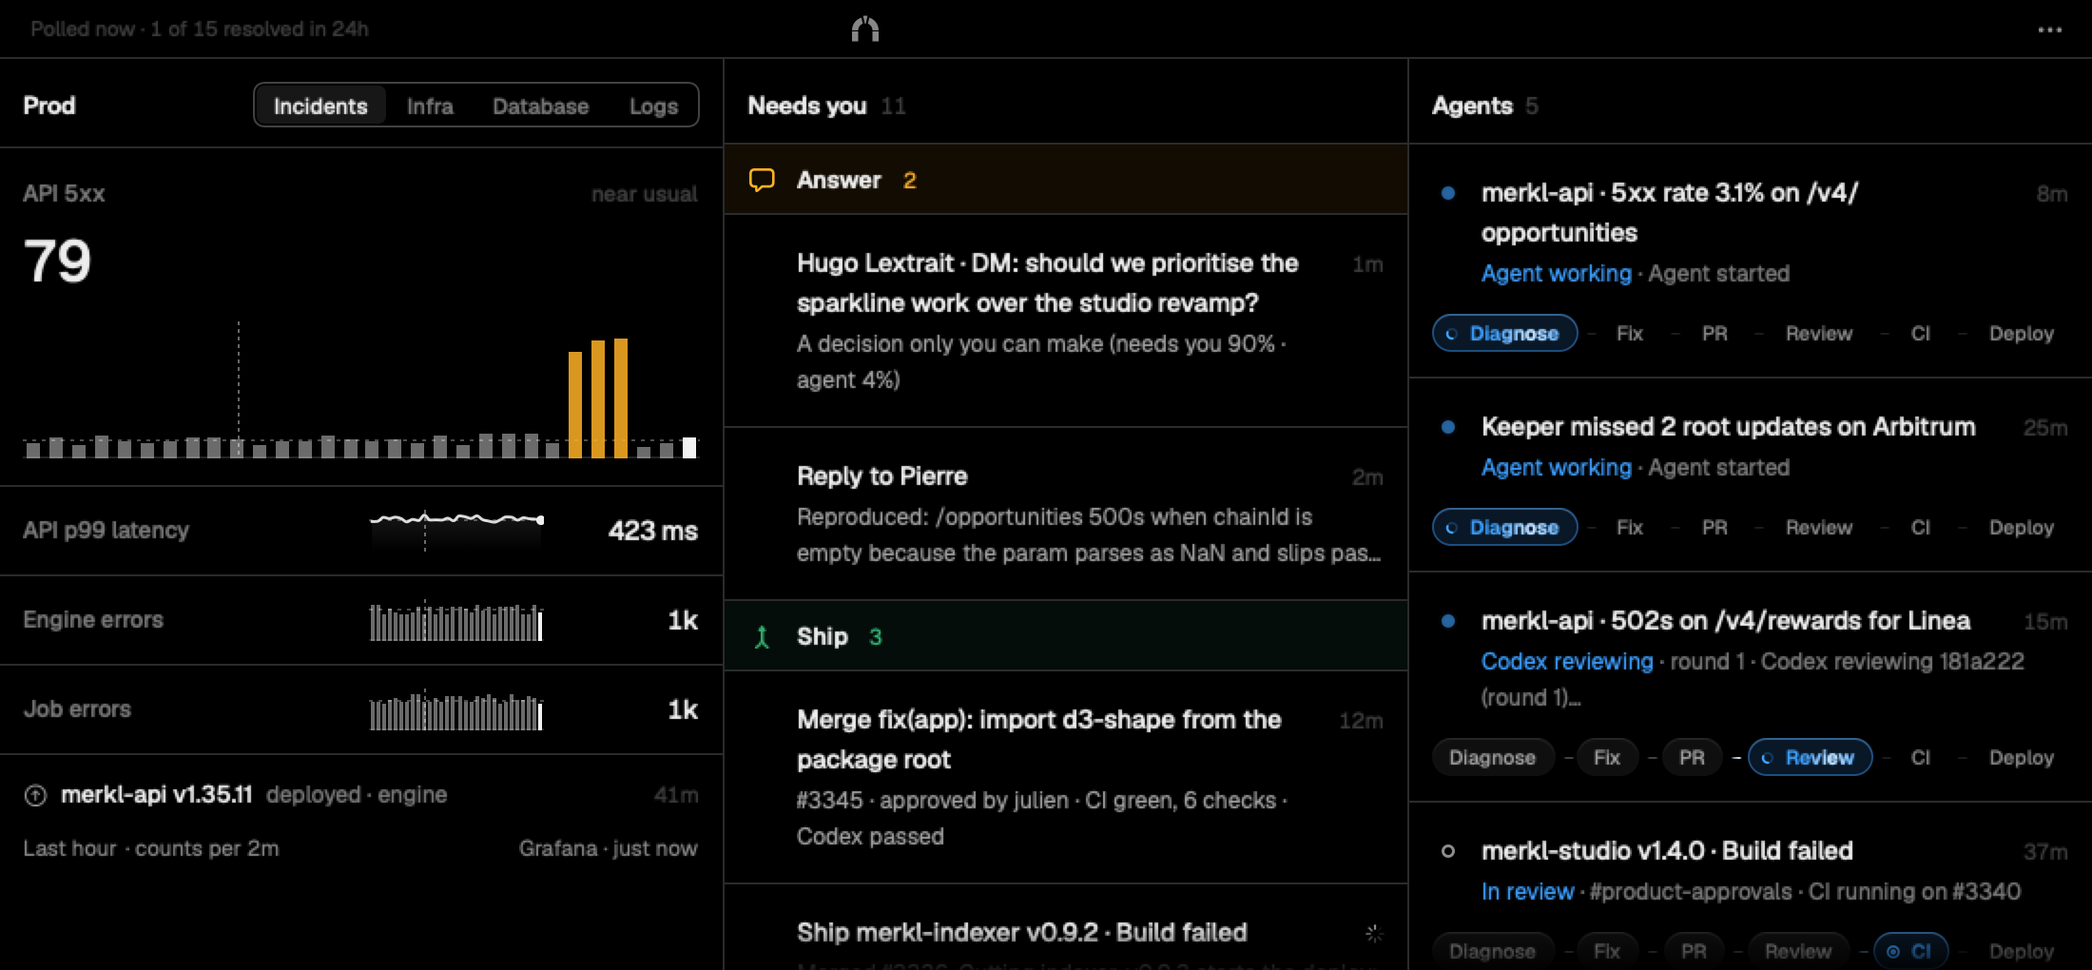
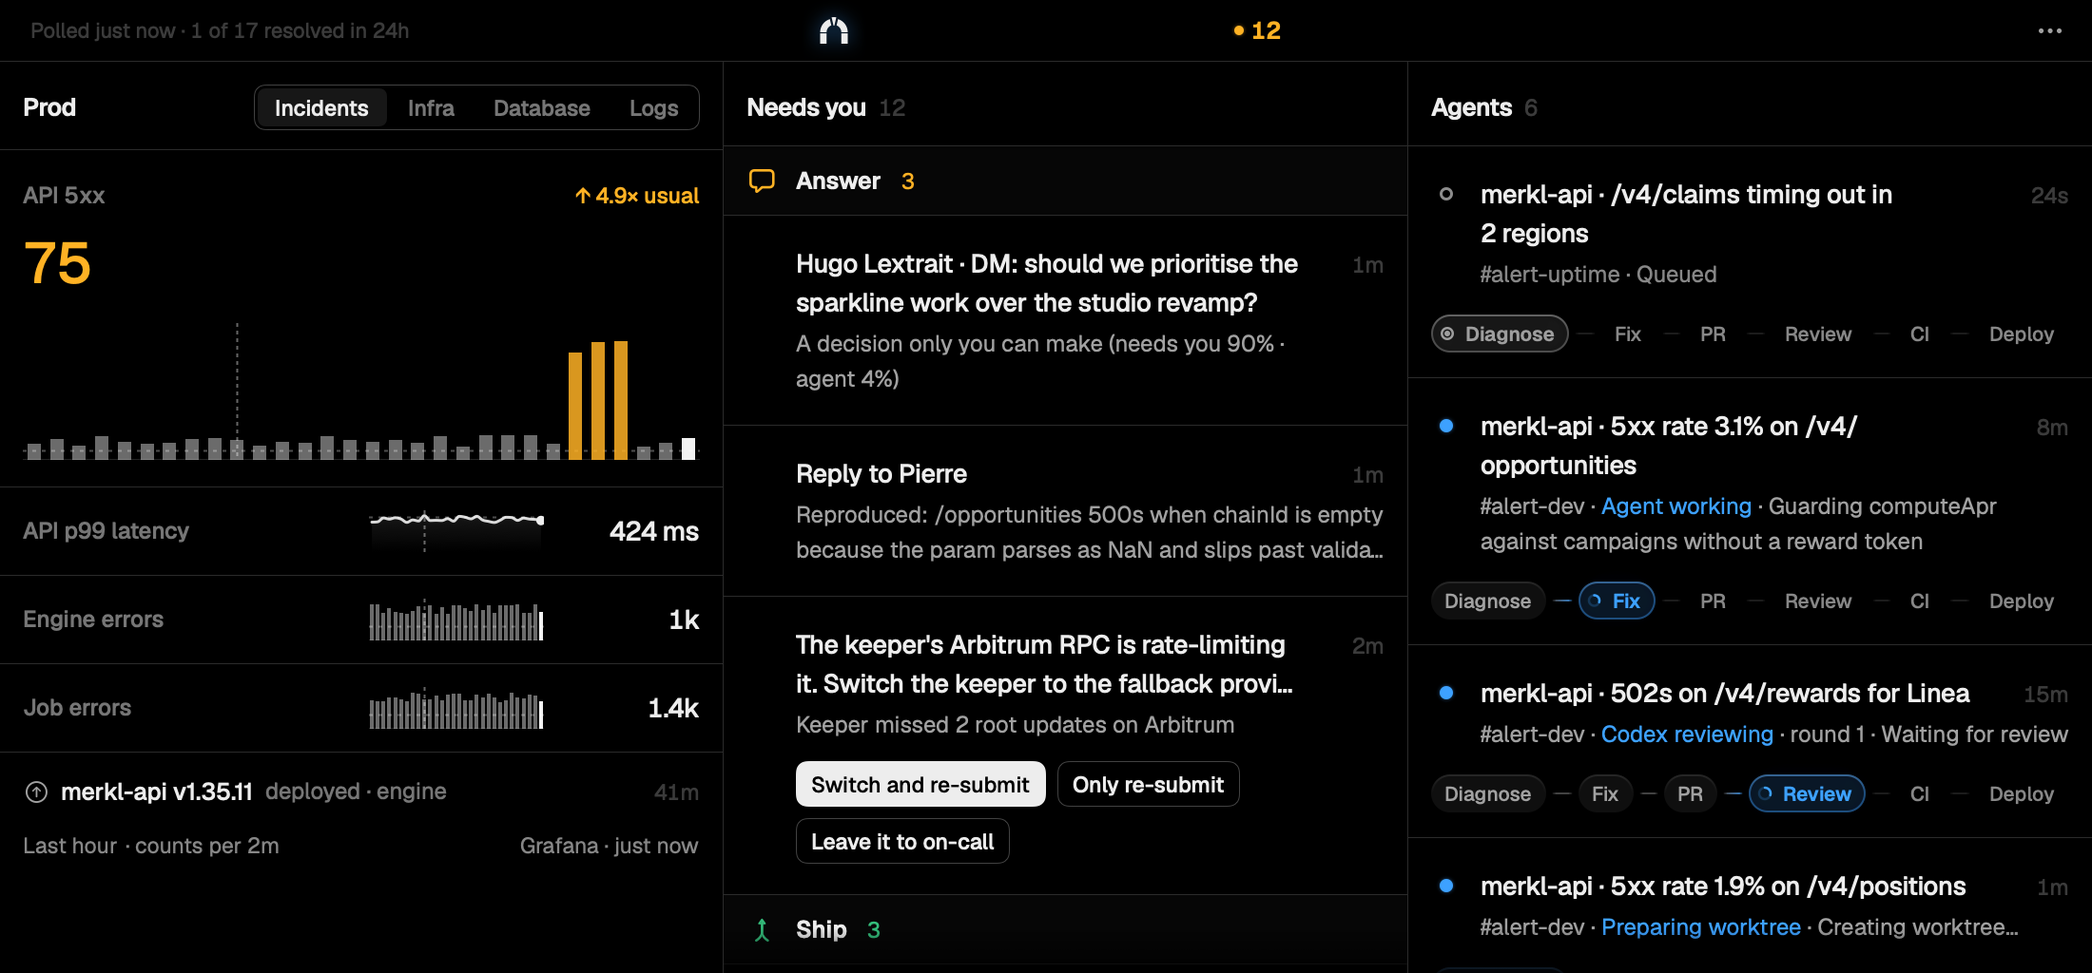
App: the offscreen harness drives hover and targets the intended controls
Drive row hover from accessibility frames in DEBUG runs, including clearing it between steps. The suite clicks the hovered Merge control by label, uses named row actions for nested buttons, and targets the bulk Dismiss control after Retry replaces its selected card. Exact-title filters avoid clock-derived action selectors, and banner text is asserted before capture.

Force Reduce Motion through Easing as well as the view environment. The mock signals release startup without polling and can exit before binding to exercise the daemon-keeps-stopping diagnostic. Refreshed the README images through the existing harness capture script.

The full suite passes with 121 shots and zero errors or warnings: 96 seconds of harness time versus 73 seconds for the previous 118-shot suite, while the parallel site run was active. App tests, debug build, and the daemon type checks and 988 tests pass.

diff --git a/app/Sources/Bridgetown/E2E/E2ERunner.swift b/app/Sources/Bridgetown/E2E/E2ERunner.swift
@@ -119,7 +119,22 @@ final class E2ERunner {
             try await wait(.settled, timeoutMs: 0)
         case let .telemetry(mode):
             surfaces.defaults.set(mode.rawValue, forKey: "telemetryMode")
+        case let .see(target):
+            _ = try await find(target)
+        case let .hover(target):
+            try await wait(.settled, timeoutMs: 0)
+            guard surfaces.current != nil else { throw Failure(description: "no surface to hover") }
+            let point: CGPoint
+            if let target {
+                let (element, _) = try await find(target)
+                point = CGPoint(x: element.frame.midX, y: element.frame.midY)
+            } else { point = CGPoint(x: -1, y: -1) }
+            surfaces.hover.point = target == nil ? nil : point
+            lastSettled = nil
+            try await wait(.settled, timeoutMs: 0)
         case let .press(target):
+            // A prior request may replace the card and its controls on the next snapshot.
+            try await wait(.settled, timeoutMs: 0)
             let (element, node) = try await find(target)
             guard E2EAccessibility.press(node) else {
                 throw Failure(description: "\(target.target) (\(element.role), \(type(of: node))) doesn't take a press")
@@ -179,14 +194,17 @@ final class E2ERunner {
             await withCheckedContinuation { done in
                 if !daemon.stop(completion: { done.resume() }) { done.resume() }
             }
-        case let .restart(world, tokenMismatch):
+        case let .restart(world, tokenMismatch, exitsAtStart):
+            daemon.extraEnvironment["MOCK_EXIT_AT_START"] = exitsAtStart ? "1" : ""
             daemon.extraEnvironment["MOCK_WORLD"] = world ?? suite.world
             daemon.extraEnvironment["MOCK_API_TOKEN"] = tokenMismatch ? "not-this-app" : ""
             try await wait(.settled, timeoutMs: 0)
             let replaced = daemonPid
             daemon.restart()
-            try await until("the new daemon to run") { daemonPid.map { $0 != replaced } ?? false }
-            try await wait(tokenMismatch ? .rejected : .connected, timeoutMs: 20_000)
+            if !exitsAtStart {
+                try await until("the new daemon to run") { daemonPid.map { $0 != replaced } ?? false }
+            }
+            try await wait(exitsAtStart ? .keepsExiting : tokenMismatch ? .rejected : .connected, timeoutMs: 20_000)
         case let .appearance(next):
             appearances = next
         case let .wait(condition, timeoutMs):
@@ -203,9 +221,11 @@ final class E2ERunner {
             }
         case let .shot(name, lint, only):
             return try await shoot(name, lint: lint, appearances: only ?? appearances)
-        case let .each(collection, steps):
+        case let .each(collection, title, steps):
             var results: [ShotResult] = []
-            for id in ids(collection) {
+            let matching = ids(collection, title: title)
+            if let title, matching.isEmpty { throw Failure(description: "no \(collection) titled \(title)") }
+            for id in matching {
                 for json in steps { results += try await perform(json.filling(["id": id])) }
             }
             return results
@@ -213,12 +233,12 @@ final class E2ERunner {
         return []
     }
 
-    private func ids(_ collection: String) -> [String] {
+    private func ids(_ collection: String, title: String?) -> [String] {
         guard let snap = store.snapshot else { return [] }
         switch collection {
-        case "sessions": return snap.sessions.map(\.id)
-        case "actions": return snap.sortedActions.map(\.id)
-        default: return snap.alerts.map(\.id)
+        case "sessions": return snap.sessions.filter { title == nil || $0.title == title }.map(\.id)
+        case "actions": return snap.sortedActions.filter { title == nil || $0.title == title }.map(\.id)
+        default: return snap.alerts.filter { title == nil || $0.title == title }.map(\.id)
         }
     }
 
@@ -378,6 +398,7 @@ final class E2ERunner {
         case .connected: store.connection == .connected && store.snapshot != nil
         case .rejected: store.connection == .rejected
         case .portInUse: daemon.state == .portInUse
+        case .keepsExiting: daemon.keepsExiting
         case .disconnected: if case .disconnected = store.connection { true } else { false }
         case .settled, .milliseconds: true
         }
@@ -575,6 +596,7 @@ final class E2ERunner {
             "actions": .number(Double(store.actions.count)),
             "alerts": .number(Double(store.snapshot?.alerts.count ?? 0)),
             "shots": .number(Double(report.shots.count)),
+            "reduceMotion": .bool(Easing.reduceMotion),
         ]
     }
 }

diff --git a/app/Sources/Bridgetown/E2E/E2EScenario.swift b/app/Sources/Bridgetown/E2E/E2EScenario.swift
@@ -167,7 +167,7 @@ enum E2EStep {
     }
 
     enum Wait: Equatable {
-        case settled, connected, disconnected, rejected, portInUse
+        case settled, connected, disconnected, rejected, portInUse, keepsExiting
         case milliseconds(Int)
     }
 
@@ -188,6 +188,8 @@ enum E2EStep {
     case back
     case telemetry(TelemetryPanel.Mode)
     case press(Element)
+    case hover(Element?)
+    case see(Element)
     /// A mouse click on the element: at its centre, or `at` points from its top-left corner
     /// (a control inside a row that is one button has no element of its own).
     case click(Element, at: CGPoint?)
@@ -201,14 +203,14 @@ enum E2EStep {
     case crash(Int)
     /// The app stops its daemon and leaves it down, until a `restart`.
     case stopDaemon
-    case restart(world: String?, tokenMismatch: Bool)
+    case restart(world: String?, tokenMismatch: Bool, exitsAtStart: Bool)
     case appearance([E2EAppearance])
     case wait(Wait, timeoutMs: Int)
     /// Fails the run unless the app's state (`GET /state`: route, actions, alerts…) comes
     /// to hold these values within 2s: what a step did, where a shot can't say it.
     case expect([String: E2EJSON])
     case shot(name: String, lint: Lint, appearances: [E2EAppearance]?)
-    case each(String, [E2EJSON])
+    case each(String, title: String?, [E2EJSON])
 
     struct Invalid: Error, CustomStringConvertible {
         let description: String
@@ -217,7 +219,7 @@ enum E2EStep {
     /// It changes what the app shows (or may): a frame settled before it no longer stands.
     var acts: Bool {
         switch self {
-        case .appearance, .wait, .expect, .shot, .each: false
+        case .appearance, .wait, .expect, .see, .shot, .each: false
         default: true
         }
     }
@@ -294,6 +296,11 @@ enum E2EStep {
             // Before `action`, which a banner step names its card with.
             guard ["rest", "hover", "banner", "open", "close"].contains(island) else { throw bad("island is rest, hover, banner, open or close") }
             self = .island(island, action: json["action"]?.string)
+        } else if let target = json["see"]?.string {
+            self = .see(Element(target: target, within: json["in"]?.string))
+        } else if let hover = json["hover"] {
+            if hover == .bool(false) { self = .hover(nil) }
+            else { self = .hover(Element(target: try text("hover"), within: json["in"]?.string)) }
         } else if let target = json["press"]?.string {
             self = .press(Element(target: target, within: json["in"]?.string))
         } else if let target = json["click"]?.string {
@@ -323,7 +330,7 @@ enum E2EStep {
             guard daemon.string == "stop" else { throw bad("daemon takes \"stop\"") }
             self = .stopDaemon
         } else if let restart = json["restart"] {
-            self = .restart(world: restart["world"]?.string, tokenMismatch: restart["tokenMismatch"]?.bool ?? false)
+            self = .restart(world: restart["world"]?.string, tokenMismatch: restart["tokenMismatch"]?.bool ?? false, exitsAtStart: restart["exitsAtStart"]?.bool ?? false)
         } else if let appearance = json["appearance"] {
             self = .appearance(try appearances(appearance) ?? [])
         } else if let wait = json["wait"] {
@@ -331,7 +338,7 @@ enum E2EStep {
             if let ms = wait["ms"]?.number {
                 self = .wait(.milliseconds(Int(ms)), timeoutMs: timeout)
             } else {
-                let waits: [String: Wait] = ["settled": .settled, "connected": .connected, "disconnected": .disconnected, "rejected": .rejected, "portInUse": .portInUse]
+                let waits: [String: Wait] = ["settled": .settled, "connected": .connected, "disconnected": .disconnected, "rejected": .rejected, "portInUse": .portInUse, "keepsExiting": .keepsExiting]
                 guard let name = wait.string, let parsed = waits[name] else { throw bad("wait for \(waits.keys.sorted()) or {\"ms\": n}") }
                 self = .wait(parsed, timeoutMs: timeout)
             }
@@ -347,7 +354,7 @@ enum E2EStep {
             self = .shot(name: shot, lint: lint, appearances: try appearances(json["appearances"]))
         } else if let each = json["each"]?.string {
             guard ["sessions", "actions", "alerts"].contains(each), let steps = json["do"]?.array else { throw bad("each sessions, actions or alerts, with \"do\"") }
-            self = .each(each, steps)
+            self = .each(each, title: json["title"]?.string, steps)
         } else {
             throw bad("unknown step")
         }

diff --git a/daemon/scripts/mock/main.ts b/daemon/scripts/mock/main.ts
@@ -12,6 +12,7 @@
  *   MOCK_GITHUB=blocked …   # start with GHE refusing this network; `kill -USR1 <pid>` toggles it
  *   MOCK_RELEASE_HOLD_SECONDS=600 …  # how long the release in flight at startup takes
  *   MOCK_GRAFANA=live …     # real prod charts through the local grafana MCP (read-only) instead of fake series
+ *   MOCK_EXIT_AT_START=1 …  # exit 97 on every launch, before binding or creating a store
  *   MOCK_STATIC=1 …         # nothing moves: no scheduler, no agents, the release held in flight (make e2e)
  *   MOCK_WORLD=empty …      # a fresh install that has received nothing yet
  *   MOCK_NOW=2026-10-04T12:00:00Z …  # the wall clock stopped there (clock.ts)
@@ -31,7 +32,7 @@ import { execSync } from "node:child_process"
 import { existsSync, mkdirSync, mkdtempSync, readdirSync, rmSync, writeFileSync } from "node:fs"
 import { tmpdir } from "node:os"
 import { join } from "node:path"
-import { Effect, Fiber, Schedule, Schema } from "effect"
+import { Deferred, Effect, Fiber, Schedule, Schema } from "effect"
 import { Actions } from "../../src/actions/actions.ts"
 import { bind, serve } from "../../src/api/server.ts"
 import { readEnv } from "../../src/config.ts"
@@ -75,6 +76,8 @@ const launch: Launch =
     ? { env: { ...readEnv(), apiToken: process.env.BRIDGETOWN_API_TOKEN || "dev" }, closed: new Promise<void>(() => {}) }
     : await readLaunch(launchInput)
 const token = process.env.MOCK_API_TOKEN || launch.env.apiToken
+// A launch that dies before creating its store, for the app's restart diagnostic.
+if (process.env.MOCK_EXIT_AT_START === "1") process.exit(97)
 
 // Bound first, like the daemon: a taken port exits 98 before anything is created.
 const server = bind(launch.env.port)
@@ -188,6 +191,7 @@ const program = Effect.gen(function* () {
 
   /** Releases cut during this run, and when: the tracker below walks each through approval, build and production. */
   const released: Array<{ readonly tag: string; readonly at: number }> = []
+  const releaseStarted = yield* Deferred.make<void>()
   const fake = mockGitHub({
     prs: fixtures.prs,
     branches: new Map(fixtures.sessions.flatMap((s) => (s.prUrl === null || s.branch === null ? [] : [[s.prUrl, s.branch] as const]))),
@@ -197,6 +201,7 @@ const program = Effect.gen(function* () {
     holds: { [IN_FLIGHT_TAG]: staticWorld ? Infinity : holdSeconds * 1_000 },
     blocked: process.env.MOCK_GITHUB === "blocked",
     onRelease: (tag) => released.push({ tag, at: Date.now() }),
+    onReleaseStart: (tag) => tag === IN_FLIGHT_TAG ? Deferred.succeed(releaseStarted, undefined).pipe(Effect.asVoid) : Effect.void,
   })
 
   /** What the mock's Jev said about each sweep pattern, keyed as the sweep keys them. */
@@ -254,7 +259,6 @@ const program = Effect.gen(function* () {
     // The release in flight: a real resolve through the gates, held up in the fake `gh release create`.
     const inFlight = fixtures.actions.find((a) => a.kind === "release" && a.sessionId === SESSION.inFlight)
     if (inFlight !== undefined && inFlight.sessionId !== null) {
-      const session = inFlight.sessionId
       const resolving = yield* actions.resolve(inFlight.id, null).pipe(
         Effect.tapCause((cause) => Effect.logWarning("in-flight release failed", cause)),
         Effect.forkScoped,
@@ -262,10 +266,7 @@ const program = Effect.gen(function* () {
       // Static: served once the tag is being cut, so the first snapshot is the one that stays. A resolve that ends
       // first takes the mock down with it, so the app sees a daemon that died rather than one that never answers.
       if (staticWorld) {
-        const tagCut = Effect.gen(function* () {
-          while (((yield* repo.get(session))?.releaseTag ?? null) === null) yield* Effect.sleep("10 millis")
-        })
-        yield* Effect.raceFirst(tagCut, Fiber.join(resolving).pipe(Effect.andThen(Effect.die(`the release in flight ended before ${IN_FLIGHT_TAG} was cut`))))
+        yield* Effect.raceFirst(Deferred.await(releaseStarted), Fiber.join(resolving).pipe(Effect.andThen(Effect.die(`the release in flight ended before ${IN_FLIGHT_TAG} was cut`))))
       }
     }
     yield* serve(server, { token })

diff --git a/app/Sources/Bridgetown/E2E/E2ESurfaces.swift b/app/Sources/Bridgetown/E2E/E2ESurfaces.swift
@@ -32,6 +32,7 @@ final class E2ESurfaces {
     private let daemon: DaemonProcess
     private let island: IslandController
     let defaults: UserDefaults
+    let hover = E2EHover()
     private(set) var current: Shown?
 
     init(store: Store, daemon: DaemonProcess, island: IslandController, defaults: UserDefaults) {
@@ -45,6 +46,7 @@ final class E2ESurfaces {
     @discardableResult
     func show(_ spec: E2EStep.Surface) -> Shown {
         current?.window.close()
+        hover.point = nil
         let root: AnyView
         let size: CGSize
         let name: String
@@ -65,7 +67,7 @@ final class E2ESurfaces {
             size = CGSize(width: 480, height: 400)
             name = "settings/\(tab.rawValue)"
         }
-        let host = NSHostingView(rootView: AnyView(root.modifier(E2EEnvironment(store: store, daemon: daemon, defaults: defaults))))
+        let host = NSHostingView(rootView: AnyView(root.modifier(E2EEnvironment(store: store, daemon: daemon, defaults: defaults, hover: hover))))
         // Settings is as tall as its tab's content, as its own window is; the island's are fixed.
         host.sizingOptions = spec.isStage ? [] : [.intrinsicContentSize]
         let window = NSWindow(
@@ -132,9 +134,12 @@ private struct E2EEnvironment: ViewModifier {
     let store: Store
     let daemon: DaemonProcess
     let defaults: UserDefaults
+    let hover: E2EHover
 
     func body(content: Content) -> some View {
         content
+            .coordinateSpace(name: "e2e")
+            .environment(\.e2eHoverPoint, hover.point)
             .environment(store)
             .environment(daemon)
             .environment(\.openURL, SystemActions.openLink)
@@ -148,6 +153,41 @@ private struct E2EEnvironment: ViewModifier {
                 $0.animation = nil
                 $0.disablesAnimations = true
             }
+    }
+}
+
+/// A point in the harness surface, shared by rows drawn in its offscreen window.
+@Observable
+final class E2EHover {
+    var point: CGPoint?
+}
+
+private struct E2EHoverPoint: EnvironmentKey {
+    static let defaultValue: CGPoint? = nil
+}
+
+extension EnvironmentValues {
+    var e2eHoverPoint: CGPoint? {
+        get { self[E2EHoverPoint.self] }
+        set { self[E2EHoverPoint.self] = newValue }
+    }
+}
+
+/// SwiftUI ignores native pointer moves in a window that was never ordered in. Feed the
+/// same row state from its rendered frame instead; the row's controls still take the clicks.
+struct E2EHoverModifier: ViewModifier {
+    @Environment(\.e2eHoverPoint) private var point
+    @Binding var hovering: Bool
+
+    func body(content: Content) -> some View {
+        content.overlay {
+            GeometryReader { geometry in
+                let inside = point.map { geometry.frame(in: .named("e2e")).contains($0) } ?? false
+                Color.clear
+                    .allowsHitTesting(false)
+                    .onChange(of: inside) { _, value in hovering = value }
+            }
+        }
     }
 }
 #endif

diff --git a/daemon/scripts/mock/fakes.ts b/daemon/scripts/mock/fakes.ts
@@ -89,6 +89,8 @@ export interface MockGitHubOptions {
   readonly blocked: boolean
   /** A release was cut: the mock's release tracker takes it from here. */
   readonly onRelease: (tag: string) => void
+  /** The release tag is saved and the fake is about to hold its creation in flight. */
+  readonly onReleaseStart?: (tag: string) => Effect.Effect<unknown>
 }
 
 /** A PR's head commit: one per PR, the same from `gh pr view` and the head lookup, so a review's pass shows on its merge card. */
@@ -171,7 +173,8 @@ export const mockGitHub = (options: MockGitHubOptions) => {
     createRelease: (tag) =>
       ghe(
         "release create",
-        slow(options.holds[tag] ?? options.latencyMs).pipe(
+        (options.onReleaseStart?.(tag) ?? Effect.void).pipe(
+          Effect.andThen(slow(options.holds[tag] ?? options.latencyMs)),
           Effect.andThen(
             Effect.sync(() => {
               if (!tags.includes(tag)) tags.push(tag)

diff --git a/app/Sources/Bridgetown/Views/Theme.swift b/app/Sources/Bridgetown/Views/Theme.swift
@@ -58,7 +58,17 @@ enum Ink {
 /// island's content unfolding) are plain fades there, chosen where each is declared from
 /// the environment's `accessibilityReduceMotion`, the same setting this reads.
 enum Easing {
-    static var reduceMotion: Bool { NSWorkspace.shared.accessibilityDisplayShouldReduceMotion }
+    #if DEBUG
+    /// Set once by the harness before any view reads the timings.
+    nonisolated(unsafe) static var reduceMotionOverride: Bool?
+    #endif
+
+    static var reduceMotion: Bool {
+        #if DEBUG
+        if let reduceMotionOverride { return reduceMotionOverride }
+        #endif
+        return NSWorkspace.shared.accessibilityDisplayShouldReduceMotion
+    }
 
     static var quick: Animation { reduceMotion ? .easeOut(duration: 0.08) : .easeOut(duration: 0.12) }
     static var state: Animation { reduceMotion ? .easeOut(duration: 0.12) : .smooth(duration: 0.24) }

diff --git a/app/Sources/Bridgetown/E2E/E2EHarness.swift b/app/Sources/Bridgetown/E2E/E2EHarness.swift
@@ -109,6 +109,7 @@ final class E2EHarness {
         setvbuf(stdout, nil, _IOLBF, 0)
         AppClock.override = suite.now
         Haptics.muted = true
+        Easing.reduceMotionOverride = true
         app.island.offscreen = true
         // Unbundled, the debug binary launches as a regular app and SwiftUI opens its one
         // scene, Settings, on the user's screen. A run draws Settings off screen itself.
@@ -130,6 +131,7 @@ final class E2EHarness {
             "MOCK_GRAFANA": "",
             "MOCK_GITHUB": "",
             "MOCK_API_TOKEN": "",
+            "MOCK_EXIT_AT_START": "",
             "BRIDGETOWN_DRY_RUN": "",
         ]
         UserDefaults.standard.removePersistentDomain(forName: defaultsDomain)

diff --git a/app/Sources/Bridgetown/Views/Overview/OverviewSections.swift b/app/Sources/Bridgetown/Views/Overview/OverviewSections.swift
@@ -113,6 +113,7 @@ struct NeedsYouSection: View {
         Button(closes > 0 ? "Close…" : "Dismiss") {
             if closes > 0 { confirmingClose = true } else { finish { picked.forEach(store.dismiss) } }
         }
+        .accessibilityIdentifier("needsYou.dismissPicked")
         .buttonStyle(.stage(.secondary))
         .disabled(picked.isEmpty)
         .help(closes > 0 ? "Some of these close their session without a fix" : "Dismiss the selected cards")

diff --git a/app/Sources/Bridgetown/Views/Primitives/Table.swift b/app/Sources/Bridgetown/Views/Primitives/Table.swift
@@ -174,6 +174,9 @@ struct TableRow<Content: View, Overlay: View, Menu: View>: View {
                 label.background(pick?.selected == true ? Ink.picked : .clear)
             }
         }
+        #if DEBUG
+        .modifier(E2EHoverModifier(hovering: $hovering))
+        #endif
         .overlay(alignment: .trailing) { overlay(hovering) }
         .onHover { hovering = $0 }
         .animation(Easing.quick, value: hovering)
